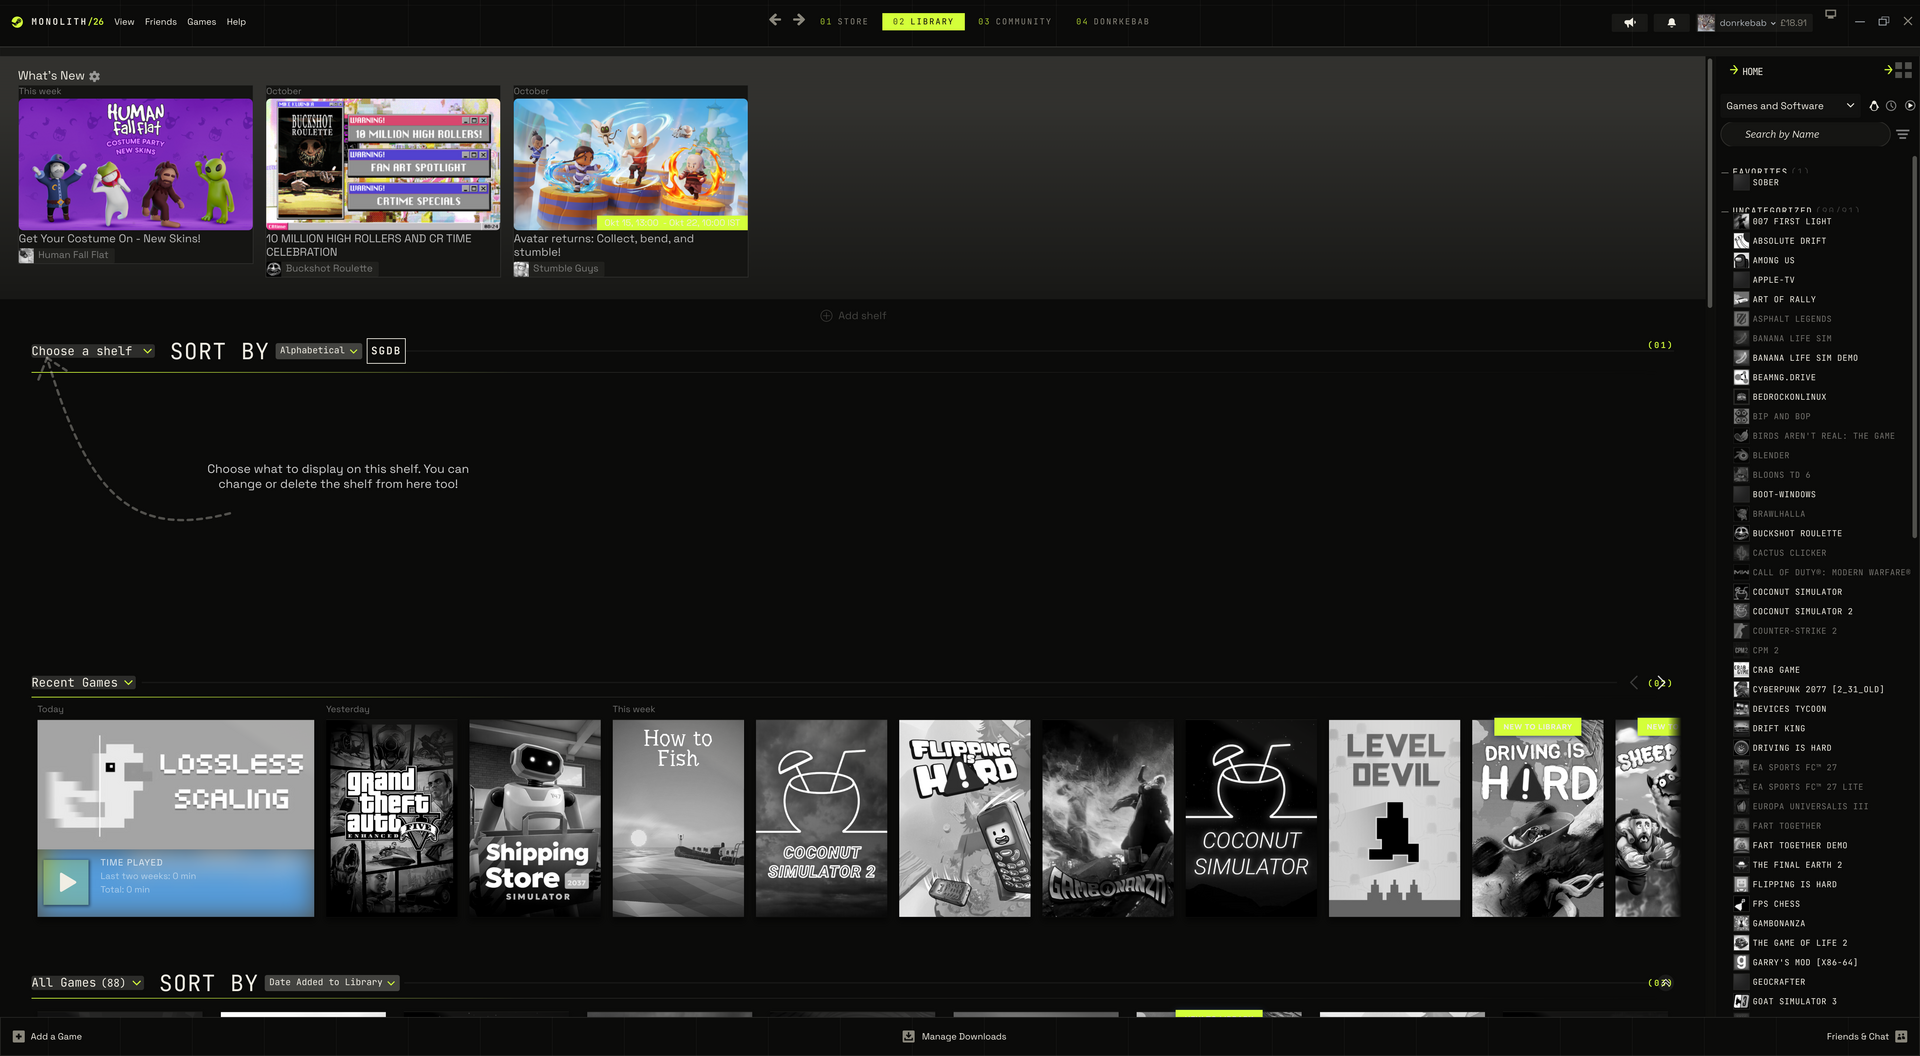
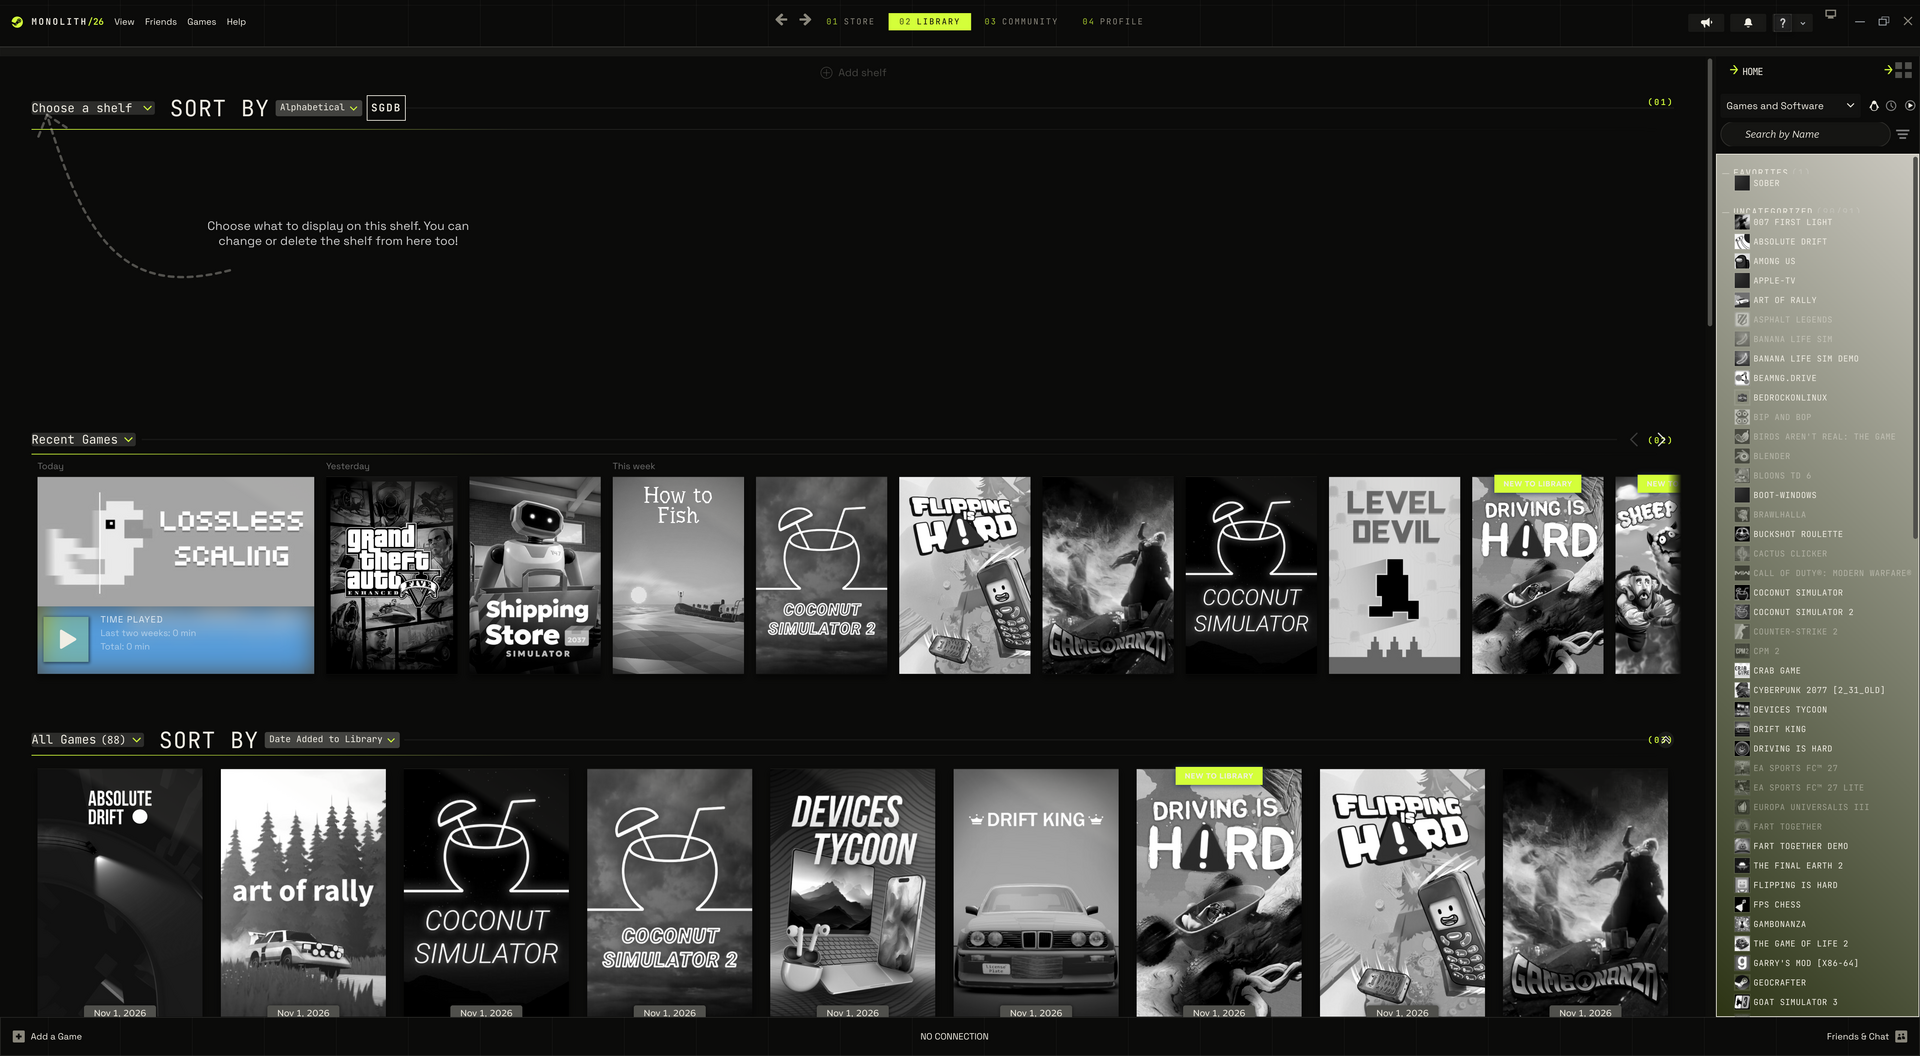
Center game page art with side fades, refresh screenshots

diff --git a/mx/main.css b/mx/main.css
@@ -1058,7 +1058,8 @@ body::before{content:"";position:fixed;inset:-20%;pointer-events:none;z-index:0;
 /* hero art: fill the banner edge to edge; hide the blurred fallback layer */
 .NZMJ6g2iVnFsOOp-lDmIP .HNbe3eZf6H7dtJ042x1vM.HSQWw9HUAP6jtA2OZjS-u{display:none!important}
 .NZMJ6g2iVnFsOOp-lDmIP .QlR9EFwTdUNm_J5vx54_Z{left:0!important;right:0!important;width:100%!important}
-.NZMJ6g2iVnFsOOp-lDmIP .HNbe3eZf6H7dtJ042x1vM:not(.HSQWw9HUAP6jtA2OZjS-u){width:100%!important;height:100%!important;object-fit:cover!important;object-position:center 30%!important;left:0!important;transform:none!important}
+.NZMJ6g2iVnFsOOp-lDmIP{background:var(--bg-solid)!important}
+.NZMJ6g2iVnFsOOp-lDmIP .HNbe3eZf6H7dtJ042x1vM:not(.HSQWw9HUAP6jtA2OZjS-u){width:100%!important;height:100%!important;object-fit:contain!important;object-position:center!important;left:0!important;transform:none!important;-webkit-mask-image:linear-gradient(90deg,transparent 0,#000 22%,#000 78%,transparent 100%);mask-image:linear-gradient(90deg,transparent 0,#000 22%,#000 78%,transparent 100%)}
 ._3ydigb6zZAjJ0JCDgHwSYA._2AzIX5kl9k6JnxLfR5H4kX:has(.SVGIcon_Play) *,._3ydigb6zZAjJ0JCDgHwSYA._2AzIX5kl9k6JnxLfR5H4kX:has(.SVGIcon_Download) *{color:inherit!important;fill:currentColor!important}
 /* ===== layout layer: floating composition, motion, spotlight ===== */
 :root{--ease:cubic-bezier(.2,.9,.25,1)}
